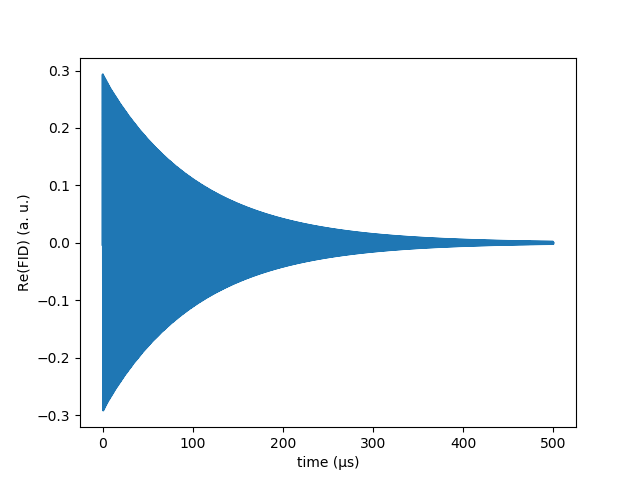
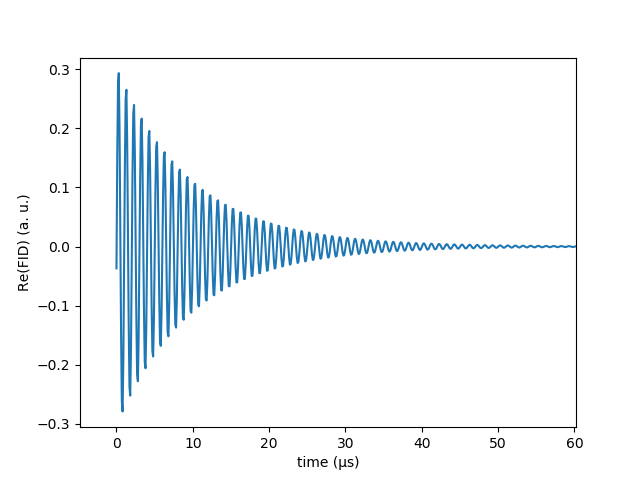
Updated the README up to the first example of execution (included).

diff --git a/README.md b/README.md
@@ -168,15 +168,15 @@ Below, the content and usage of these modules is reported briefly:
   
   1. `power_absorption_spectrum`
   
-     Produces the intensity of power absorption for each pulse's frequency in resonance with the system.
-    
+     Computes the power absorbed by the system from a pulse as a function of the frequency of the pulse, according to the theoretical formula derived from Fermi golden rule.
+     
   1. `evolve`
-  
-     Evolves the state of the system under the action of the specified electromagnetic pulse. The evolution is carried out using the Magnus expansion of the Hamiltonian of the system cast in the specified dynamical picture.
+     
+     Evolves the state of the system under the action of a given electromagnetic pulse, or just the stationary Hamiltonian. Evolution is carried out approximating the evolution operator with the first terms of the Magnus expansion and the user can specify in which dynamical picture to evolve the system.
 
   1. `FID_signal`
   
-     Simulates the free induction decay signal generated by the magnetization of the system after the application of a pulse.
+     Simulates the free induction decay signal generated by the transversal magnetization of the system after the application of a pulse.
     
   1. `fourier_transform_signal`
   
@@ -184,21 +184,21 @@ Below, the content and usage of these modules is reported briefly:
     
   1. `fourier_phase_shift`
   
-     Computes the phase to be added to the FID in order to correct the shape of the Fourier spectrum of the system.
+     Computes the phase shift to be applied to the FID in order to correct the shape of the Fourier spectrum of the system and recover the typical absorptive/dispersive lorentzian shapes at a given peak.
     
-  Besides these functions, which execute the main computations of the simulation, the module contains the functions for the plot and visualization of the results.
+  Besides these functions, which execute the main passages of the simulation, this module contains the functions for the plot and visualization of the results.
   
-* `NMR_NQR_GUI`
+* `PULSEE_GUI`
 
   Graphical user interface of the program. The execution of the following command from the terminal
   
-  `$ python NMR_NQR_GUI.py`
+  `$ python PULSEE_GUI.py`
   
   launches the application. This has been developed using the tools provided by the library Kivy.
   
-  In the application, most of the features of the software are available, but not all of them (for instance, power absorption spectra are not accessible). An in-depth description of the GUI can be found in the related page of the wiki:
+  In the application, most of the features of the software are available, but not all of them (for instance, power absorption spectra are not included). An in-depth description of the GUI can be found in the related page of the wiki:
   
-  https://github.com/DavideCandoli/NQR-NMRSimulationSoftware/wiki/GUI
+  https://github.com/DavideCandoli/PULSEE/wiki/GUI
     
 ### Examples of execution
 
@@ -214,18 +214,12 @@ spin_par = {'quantum number' : 1.,
 zeem_par = {'field magnitude' : 1.,
             'theta_z' : 0.,
             'phi_z' : 0.}
-    
-quad_par = {'coupling constant' : 0.,
-            'asymmetry parameter' : 0.,
-            'alpha_q' : 0.,
-            'beta_q' : 0.,
-            'gamma_q' : 0.}
                 
-spin, h_unperturbed, dm_0 = nuclear_system_setup(spin_par, zeem_par, quad_par, initial_state='canonical', temperature=1e-4)
+spin, h_unperturbed, dm_0 = nuclear_system_setup(spin_par=spin_par, quad_par=None, zeem_par=zeem_par, initial_state='canonical', temperature=1e-4)
 
 plot_real_part_density_matrix(dm_0)
 ```
-where the initial state has been set to be at thermal equilibrium at a temperature of 10<sup>-3</sup> K.
+where the system has been initially set at thermal equilibrium at a temperature of 10<sup>-4</sup> K.
 ![Pure Zeeman - Initial_State](Figures_README/Pure_Zeeman_Initial_State.png)
 
 Then, the power absorption spectrum can be simulated running the functions
@@ -245,7 +239,7 @@ is equal to pi/2. Setting a pulse made up of the single linearly polarized mode
 mode = pd.DataFrame([(1., 0.1, 0., math.pi/2, 0.)], 
                      columns=['frequency', 'amplitude', 'phase', 'theta_p', 'phi_p'])
 ```
-the pulse time should be equal to 5 us in order to produce a 90° rotation. Thus, the effective amplitude of the wave is 0.05 us: the linearly polarized mode splits into two rotating waves, one of which is in resonance with the system, the other off-resonance.
+the pulse time should be equal to 5 us in order to produce a 90° rotation. Indeed, the effective amplitude of the wave is 0.05 T: the linearly polarized mode splits into two rotating waves, only one of which is in resonance with the system.
 
 Then, the state of the system is evolved and plotted with the following calls:
 ```
@@ -260,7 +254,7 @@ plot_real_part_density_matrix(dm_evolved)
 
 The evolved density matrix can be employed to generate the FID signal of the system as follows:
 ```
-t, fid = FID_signal(spin, h_unperturbed, dm_evolved, acquisition_time=500, T2=100)
+t, fid = FID_signal(spin, h_unperturbed, dm_evolved, acquisition_time=100, T2=10)
 
 plot_real_part_FID_signal(t, fid)
 ```
